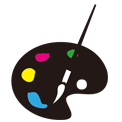
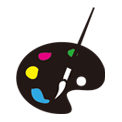
add straw

diff --git a/Draw/Controller/Common/ShareImageManager.m b/Draw/Controller/Common/ShareImageManager.m
@@ -942,12 +942,12 @@ static UIImage* _whitePaperImage;
 
 - (UIImage *)paintPlayerImage
 {
-    return [self fixedAndStrectchableImageNamed:@"paint_player"];
+    return [self fixedAndStrectchableImageNamed:@"shop_item_paint_player"];
 }
 
 - (UIImage *)strawImage
 {
-    return [self fixedAndStrectchableImageNamed:@"straw"];
+    return [self fixedAndStrectchableImageNamed:@"shop_item_straw"];
 }
 
 - (UIImage *)commonRoundAavatarNoUserImage
